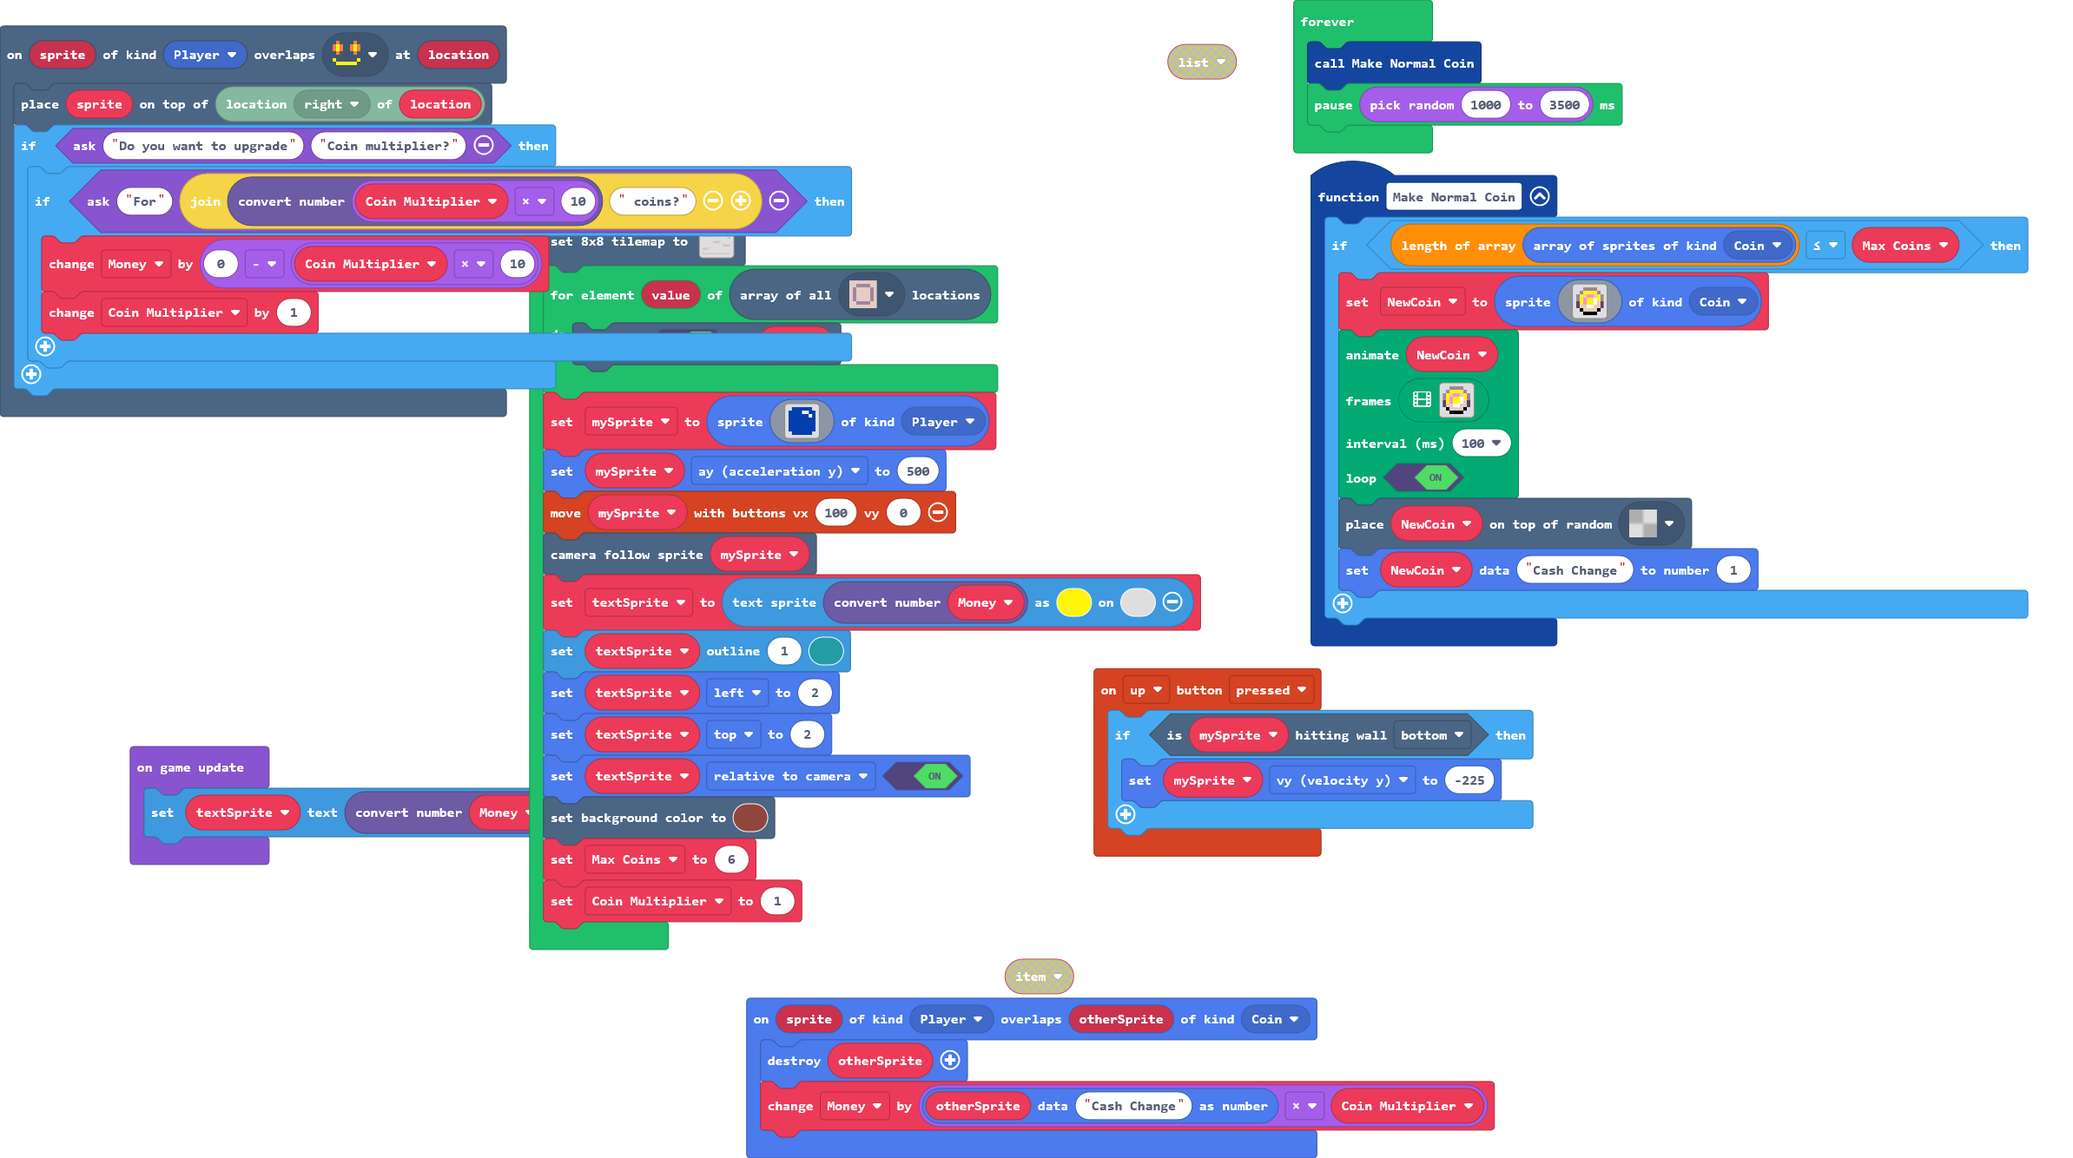
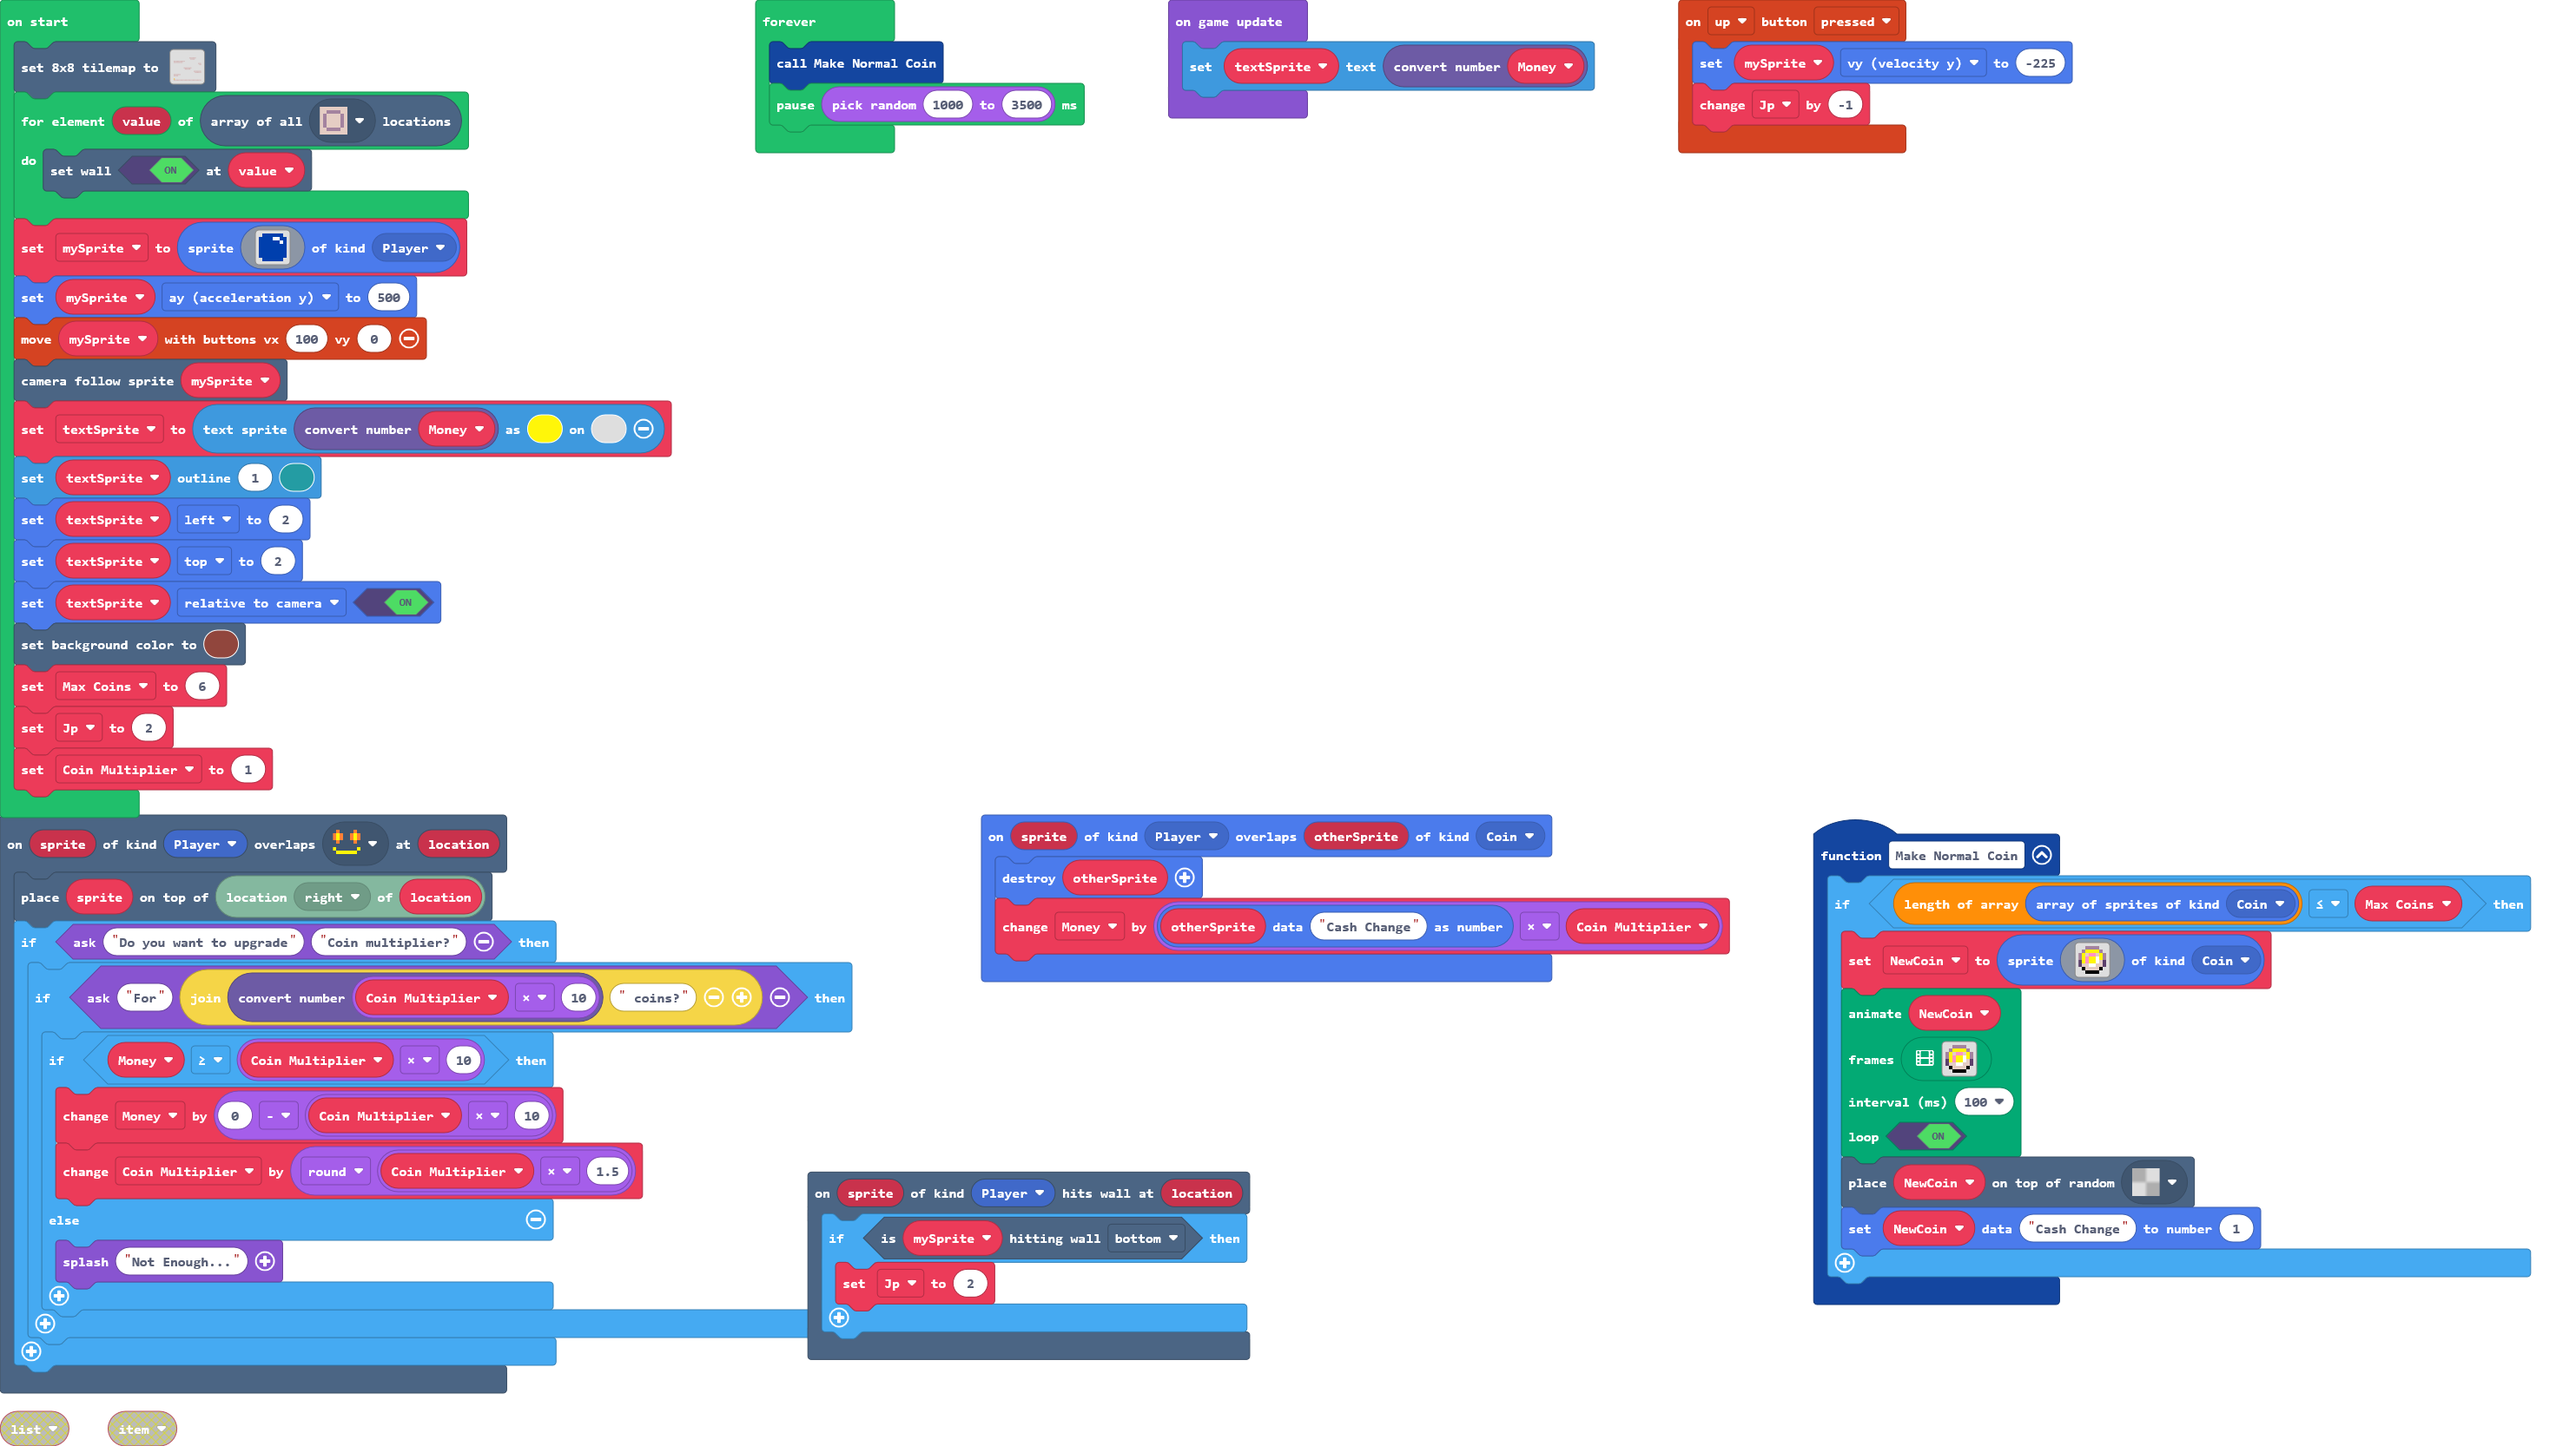
Update main.blocks, main.ts

diff --git a/main.ts b/main.ts
@@ -5,14 +5,22 @@ scene.onOverlapTile(SpriteKind.Player, assets.tile`myTile0`, function (sprite, l
     tiles.placeOnTile(sprite, tiles.locationInDirection(location, CollisionDirection.Right))
     if (game.ask("Do you want to upgrade", "Coin multiplier?")) {
         if (game.ask("For", "" + conv.ConvertNumber(Coin_Multiplier * 10) + " coins?")) {
-            Money += 0 - Coin_Multiplier * 10
-            Coin_Multiplier += 1
+            if (Money >= Coin_Multiplier * 10) {
+                Money += 0 - Coin_Multiplier * 10
+                Coin_Multiplier += Math.round(Coin_Multiplier * 1.5)
+            } else {
+                game.splash("Not Enough...")
+            }
         }
     }
 })
 controller.up.onEvent(ControllerButtonEvent.Pressed, function () {
+    mySprite.vy = -225
+    Jp += -1
+})
+scene.onHitWall(SpriteKind.Player, function (sprite, location) {
     if (mySprite.isHittingTile(CollisionDirection.Bottom)) {
-        mySprite.vy = -225
+        Jp = 2
     }
 })
 sprites.onOverlap(SpriteKind.Player, SpriteKind.Coin, function (sprite, otherSprite) {
@@ -97,6 +105,7 @@ function Make_Normal_Coin () {
 }
 let NewCoin: Sprite = null
 let Coin_Multiplier = 0
+let Jp = 0
 let Max_Coins = 0
 let Money = 0
 let mySprite: Sprite = null
@@ -124,6 +133,7 @@ textSprite.top = 2
 textSprite.setFlag(SpriteFlag.RelativeToCamera, true)
 scene.setBackgroundColor(14)
 Max_Coins = 6
+Jp = 2
 Coin_Multiplier = 1
 game.onUpdate(function () {
     textSprite.setText(conv.ConvertNumber(Money))
